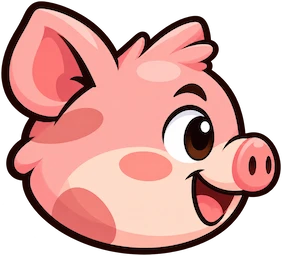
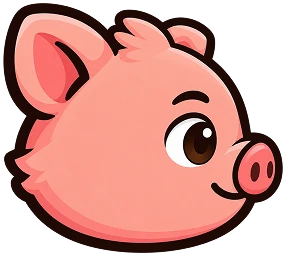
jaya

diff --git a/config.js b/config.js
@@ -716,6 +716,14 @@ var CONFIG = {
             // centre at X, Y and its face (the picture's shortest side) H —
             // ears / horns grow past it.
             FACE: { X: 126, Y: 28, H: 40 },
+            // THE HEAD ON EVERY CAR (and the VS card): grown past FACE.H, and
+            // sunk behind the door — its bottom CROP cut off exactly at the
+            // window's bottom edge (FACE.S, measured from each car's art; or
+            // Y + H/2 without it). The extra size grows up, over the roof.
+            HEAD: {
+                SCALE: 1.35,       // x FACE.H
+                CROP:  0.1,        // share of the head's height hidden below the window's bottom edge
+            },
             // THE LOOK BACK: the driver stays down out of sight — only the
             // window shows — and pops up from the sill to glance back only at
             // milestones, as the piggy car runs down each share of the lead in
@@ -734,40 +742,40 @@ var CONFIG = {
             // TYRE_SIZE square tyres with their TOP-LEFT corners at TYRES
             // (rear, front) — and the driver's head (FACE, as above) in this
             // body's own driver's window: its cut edge on the window's sill,
-            // the ears over the roof. With none here (or the art missing) the
+            // the ears over the roof; S is the glass's bottom edge. With none here (or the art missing) the
             // piggy car's body stands in, with FACE above.
             CARS: [
-                getawayCarArt(1, 207, 104, 56, [20, 65], [126, 65], { X: 100, Y: 27, H: 36 }),   // yellow city car
-                getawayCarArt(2, 256,  72, 56, [22, 34], [163, 34], { X: 110, Y: 17, H: 30 }),   // red muscle car
-                getawayCarArt(3, 256, 119, 65, [29, 75], [156, 75], { X: 113, Y: 40, H: 40 }),   // green SUV
-                getawayCarArt(4, 256, 100, 58, [28, 63], [173, 63], { X: 135, Y: 27, H: 36 }),   // teal classic
-                getawayCarArt(5, 256,  91, 53, [29, 60], [175, 60], { X: 135, Y: 19, H: 38 }),   // dark sedan
-                getawayCarArt(6, 256,  77, 56, [19, 39], [157, 39], { X: 112, Y: 17, H: 30 }),   // blue sports car
-                getawayCarArt(7, 256, 101, 54, [30, 67], [176, 67], { X: 143, Y: 30, H: 36 }),   // orange wagon
-                getawayCarArt(8, 256, 114, 60, [25, 75], [169, 75], { X: 138, Y: 34, H: 40 }),   // cream city car
-                getawayCarArt(9, 304, 102, 64, [38, 62], [216, 62], { X: 168, Y: 28, H: 38 }),   // red pickup
-                getawayCarArt(10, 307, 129, 64, [34, 85], [220, 85], { X: 214, Y: 42, H: 44 }),  // blue van
-                getawayCarArt(11, 288,  73, 49, [30, 43], [208, 43], { X: 150, Y: 18, H: 30 }),  // purple limo
-                getawayCarArt(12, 256, 150, 68, [30, 103], [162, 103], { X: 125, Y: 54, H: 50 }), // mint bubble car
-                getawayCarArt(13, 280,  81, 53, [32, 47], [196, 47], { X: 122, Y: 24, H: 34 }),  // red fastback
-                getawayCarArt(14, 256, 126, 65, [28, 82], [160, 82], { X: 122, Y: 39, H: 40 }),  // green off-roader
-                getawayCarArt(15, 256,  84, 48, [32, 52], [181, 52], { X: 138, Y: 22, H: 34 }),  // cream sedan
-                getawayCarArt(16, 256,  87, 58, [30, 52], [171, 52], { X: 118, Y: 25, H: 32 }),  // yellow coupe
-                getawayCarArt(17, 300, 125, 69, [28, 85], [205, 85], { X: 190, Y: 37, H: 44 }),  // blue minivan
-                getawayCarArt(18, 252,  66, 45, [36, 37], [178, 37], { X: 115, Y: 16, H: 28 }),  // maroon coupe
-                getawayCarArt(19, 256,  97, 56, [18, 57], [167, 57], { X: 112, Y: 24, H: 34 }),  // red hatchback
-                getawayCarArt(20, 270,  94, 54, [34, 60], [184, 60], { X: 158, Y: 23, H: 36 }),  // blue pickup
-                getawayCarArt(21, 256,  97, 45, [35, 67], [181, 67], { X: 145, Y: 27, H: 34 }),  // olive classic
-                getawayCarArt(22, 260,  73, 53, [34, 35], [175, 35], { X: 132, Y: 18, H: 28 }),  // orange sports car
-                getawayCarArt(23, 260,  89, 47, [35, 59], [185, 59], { X: 148, Y: 25, H: 34 }),  // grey estate
-                getawayCarArt(24, 280, 139, 65, [35, 97], [189, 97], { X: 168, Y: 45, H: 44 }),  // yellow van
-                getawayCarArt(25, 256,  94, 53, [27, 58], [177, 58], { X: 120, Y: 23, H: 36 }),  // teal hatchback
-                getawayCarArt(26, 256,  73, 47, [29, 44], [181, 44], { X: 140, Y: 17, H: 28 }),  // dark green sedan
-                getawayCarArt(27, 256,  94, 55, [26, 61], [180, 61], { X: 145, Y: 28, H: 36 }),  // red estate
-                getawayCarArt(28, 256,  93, 63, [17, 50], [185, 50], { X: 115, Y: 18, H: 28 }),  // purple hot rod
-                getawayCarArt(29, 256,  88, 56, [21, 53], [174, 53], { X: 137, Y: 22, H: 34 }),  // copper crossover
-                getawayCarArt(30, 256, 105, 53, [24, 72], [177, 72], { X: 142, Y: 33, H: 38 }),  // yellow taxi
-                getawayCarArt(31, 256,  77, 56, [26, 43], [178, 43], { X: 115, Y: 20, H: 28 }),  // navy coupe
+                getawayCarArt(1, 207, 104, 56, [20, 65], [126, 65], { X: 100, Y: 27, H: 36, S: 45 }),   // yellow city car
+                getawayCarArt(2, 256,  72, 56, [22, 34], [163, 34], { X: 110, Y: 17, H: 30, S: 32 }),   // red muscle car
+                getawayCarArt(3, 256, 119, 65, [29, 75], [156, 75], { X: 113, Y: 40, H: 40, S: 59 }),   // green SUV
+                getawayCarArt(4, 256, 100, 58, [28, 63], [173, 63], { X: 135, Y: 27, H: 36, S: 44 }),   // teal classic
+                getawayCarArt(5, 256,  91, 53, [29, 60], [175, 60], { X: 135, Y: 19, H: 38, S: 37 }),   // dark sedan
+                getawayCarArt(6, 256,  77, 56, [19, 39], [157, 39], { X: 112, Y: 17, H: 30, S: 30 }),   // blue sports car
+                getawayCarArt(7, 256, 101, 54, [30, 67], [176, 67], { X: 143, Y: 30, H: 36, S: 49 }),   // orange wagon
+                getawayCarArt(8, 256, 114, 60, [25, 75], [169, 75], { X: 138, Y: 34, H: 40, S: 50 }),   // cream city car
+                getawayCarArt(9, 304, 102, 64, [38, 62], [216, 62], { X: 168, Y: 28, H: 38, S: 44 }),   // red pickup
+                getawayCarArt(10, 307, 129, 64, [34, 85], [220, 85], { X: 214, Y: 42, H: 44, S: 60 }),  // blue van
+                getawayCarArt(11, 288,  73, 49, [30, 43], [208, 43], { X: 150, Y: 18, H: 30, S: 29 }),  // purple limo
+                getawayCarArt(12, 256, 150, 68, [30, 103], [162, 103], { X: 125, Y: 54, H: 50, S: 71 }), // mint bubble car
+                getawayCarArt(13, 280,  81, 53, [32, 47], [196, 47], { X: 122, Y: 24, H: 34, S: 36 }),  // red fastback
+                getawayCarArt(14, 256, 126, 65, [28, 82], [160, 82], { X: 122, Y: 39, H: 40, S: 56 }),  // green off-roader
+                getawayCarArt(15, 256,  84, 48, [32, 52], [181, 52], { X: 138, Y: 22, H: 34, S: 35 }),  // cream sedan
+                getawayCarArt(16, 256,  87, 58, [30, 52], [171, 52], { X: 118, Y: 25, H: 32, S: 38 }),  // yellow coupe
+                getawayCarArt(17, 300, 125, 69, [28, 85], [205, 85], { X: 190, Y: 37, H: 44, S: 55 }),  // blue minivan
+                getawayCarArt(18, 252,  66, 45, [36, 37], [178, 37], { X: 115, Y: 16, H: 28, S: 25 }),  // maroon coupe
+                getawayCarArt(19, 256,  97, 56, [18, 57], [167, 57], { X: 112, Y: 24, H: 34, S: 38 }),  // red hatchback
+                getawayCarArt(20, 270,  94, 54, [34, 60], [184, 60], { X: 158, Y: 23, H: 36, S: 38 }),  // blue pickup
+                getawayCarArt(21, 256,  97, 45, [35, 67], [181, 67], { X: 145, Y: 27, H: 34, S: 40 }),  // olive classic
+                getawayCarArt(22, 260,  73, 53, [34, 35], [175, 35], { X: 132, Y: 18, H: 28, S: 30 }),  // orange sports car
+                getawayCarArt(23, 260,  89, 47, [35, 59], [185, 59], { X: 148, Y: 25, H: 34, S: 39 }),  // grey estate
+                getawayCarArt(24, 280, 139, 65, [35, 97], [189, 97], { X: 168, Y: 45, H: 44, S: 64 }),  // yellow van
+                getawayCarArt(25, 256,  94, 53, [27, 58], [177, 58], { X: 120, Y: 23, H: 36, S: 38 }),  // teal hatchback
+                getawayCarArt(26, 256,  73, 47, [29, 44], [181, 44], { X: 140, Y: 17, H: 28, S: 28 }),  // dark green sedan
+                getawayCarArt(27, 256,  94, 55, [26, 61], [180, 61], { X: 145, Y: 28, H: 36, S: 41 }),  // red estate
+                getawayCarArt(28, 256,  93, 63, [17, 50], [185, 50], { X: 115, Y: 18, H: 28, S: 32 }),  // purple hot rod
+                getawayCarArt(29, 256,  88, 56, [21, 53], [174, 53], { X: 137, Y: 22, H: 34, S: 36 }),  // copper crossover
+                getawayCarArt(30, 256, 105, 53, [24, 72], [177, 72], { X: 142, Y: 33, H: 38, S: 49 }),  // yellow taxi
+                getawayCarArt(31, 256,  77, 56, [26, 43], [178, 43], { X: 115, Y: 20, H: 28, S: 31 }),  // navy coupe
             ],
         },
     },
@@ -1200,6 +1208,11 @@ var CONFIG = {
             { x: 175, y: 66 },   // front
         ],
         TYRES_IN_FRONT: true,    // tyres drawn over the body's dark arches
+        // THE DRIVER: the piggy in side view (looking ahead, at the rival) in
+        // the front window, in the BODY's pixels. Its height H with the bottom
+        // CROP cut off at the window's bottom edge S, centred at X; whatever
+        // is outside the glass (TOP, LEFT, RIGHT edges) cut off too.
+        DRIVER: { KEY: 'piggy_side', X: 120, S: 43, TOP: 14, LEFT: 96, RIGHT: 147, H: 42, CROP: 0.1 },
 
         // ONE CAR PER SLOT, its road the line through the slot's bottom edge.
         // Sized to WIDTH_FRAC of the car area's width, but never taller (ground

diff --git a/game.js b/game.js
@@ -1192,8 +1192,33 @@ class GameScene extends Phaser.Scene {
             const h = Math.min(A.width * v(C.WIDTH_FRAC, 0.45) / bodyW * carH,
                                p.slotSize * v(C.MAX_H_FRAC, 1)) * v(C.SCALE, 1);
             const w = h / carH * bodyW;
-            return this._makeCar(left + w / 2, p.slotY + p.slotSize / 2, h);
+            const car = this._makeCar(left + w / 2, p.slotY + p.slotSize / 2, h);
+            this._seatDriver(car);
+            return car;
         });
+    }
+
+    // THE PIGGY CAR'S DRIVER in its window (CAR.DRIVER): the side view, its
+    // bottom cut at the window's bottom edge and its top at the glass's
+    // top. Rides the body with the suspension (car.face, _suspend).
+    _seatDriver(car) {
+        const C = CONFIG.CAR || {}, Dr = C.DRIVER, v = (x, d) => (x !== undefined ? x : d);
+        if (!Dr || !this.textures.exists(Dr.KEY)) return;
+        const bw = v(C.BODY_W, 254), gy = this._carGround(C);
+        const face = this.add.image(-bw / 2 + Dr.X, -gy + Dr.S, Dr.KEY).setOrigin(0.5, 0);
+        const fw = face.frame.realWidth, fh = face.frame.realHeight;
+        const s = Dr.H / fh, cut = v(Dr.CROP, 0);
+        face.setScale(s);
+        face.y -= Dr.H * (1 - cut);
+        // Off the top and sides: whatever is outside the glass.
+        const x0 = Dr.X - fw * s / 2;
+        const top = Math.max(0, (Dr.TOP - (Dr.S - Dr.H * (1 - cut))) / s);
+        const l = Dr.LEFT !== undefined ? Math.max(0, (Dr.LEFT - x0) / s) : 0;
+        const r = Dr.RIGHT !== undefined ? Math.min(fw, (Dr.RIGHT - x0) / s) : fw;
+        face.setCrop(l, top, r - l, fh * (1 - cut) - top);
+        car.addAt(face, 1);
+        car.face = face;
+        car.faceBaseY = face.y;
     }
 
     // Where the tyres meet the ground, in the body's own pixels: the lowest
@@ -1664,10 +1689,8 @@ class GameScene extends Phaser.Scene {
             // Anchored at its BOTTOM CENTRE, on the window's sill — so it pops
             // up from the sill when it peeks (_peekFaces), and sinks back to
             // it. Its shortest side is the face, H; ears / horns grow past.
-            const sill = -gy + v(F.Y, 28) + v(F.H, 40) / 2;
-            const face = this.add.image(-bw / 2 + v(F.X, 126), sill, key);
-            const fw = face.frame.realWidth, fh = face.frame.realHeight;
-            face.setOrigin(0.5, 1).setScale(v(F.H, 40) / Math.min(fw, fh));
+            const face = this.add.image(-bw / 2 + v(F.X, 126), -gy + v(F.S, v(F.Y, 28) + v(F.H, 40) / 2), key);
+            this._seatHead(face, F);
             face.baseScale = face.scaleX;
             en.addAt(face, 1);
             en.face = face;
@@ -1678,6 +1701,19 @@ class GameScene extends Phaser.Scene {
             en.peek = { v: 0, want: 0, t: 0, up: false, mi: this._nextMilestone(i) };
         }
         return en;
+    }
+
+    // A DRIVER'S HEAD, placed at the window's bottom edge (its y on entry):
+    // sized from FACE.H x HEAD.SCALE by its shortest side, and sunk behind
+    // the door — its bottom CROP below the edge, cut off. Origin stays the
+    // full picture's bottom centre, so the peek's squash still works.
+    _seatHead(face, F) {
+        const Hd = ((CONFIG.VILLAIN || {}).CAR || {}).HEAD || {}, v = (x, d) => (x !== undefined ? x : d);
+        const fw = face.frame.realWidth, fh = face.frame.realHeight;
+        const s = v(F.H, 40) * v(Hd.SCALE, 1) / Math.min(fw, fh), cut = v(Hd.CROP, 0);
+        face.setOrigin(0.5, 1).setScale(s);
+        if (cut > 0) face.setCrop(0, 0, fw, fh * (1 - cut));
+        face.y += fh * s * cut;
     }
 
     // Lane i's share of its distance covered, 0..1.
@@ -2056,8 +2092,8 @@ class GameScene extends Phaser.Scene {
         car.setDepth(0);
         const key = rival ? villainKey(villainIndexFor(this.level)) : 'podium_piggy';
         if (this.textures.exists(key)) {
-            const face = this.add.image(-bw / 2 + v(F.X, 126), -gy + v(F.Y, 28) + v(F.H, 40) / 2, key);
-            face.setOrigin(0.5, 1).setScale(v(F.H, 40) / Math.min(face.frame.realWidth, face.frame.realHeight));
+            const face = this.add.image(-bw / 2 + v(F.X, 126), -gy + v(F.S, v(F.Y, 28) + v(F.H, 40) / 2), key);
+            this._seatHead(face, F);
             car.addAt(face, 1);
         }
         if (rival) car.scaleX = -car.scaleX;
@@ -2852,7 +2888,7 @@ class GameScene extends Phaser.Scene {
         // down, the list scrolls past YOU and each racer drops a place as it
         // is passed. YOU goes from the bottom slot to its final one. Rows
         // fade at the window's edges (no masks in this build).
-        let you = null, place = null;
+        let you = null, place = null, unlock = null;
         if (!champ) {
             const top = ahead;
             const others = [];
@@ -2873,11 +2909,10 @@ class GameScene extends Phaser.Scene {
             const passed = v(K.PASSED_ALPHA, 0.45);
             for (const o of others) if (o.rank >= oldR) o.body.setAlpha(passed);
             if (beaten) beaten.warm.setAlpha(1);
-            // UNLOCKED: once YOU passes the rival just beaten, its row fades
-            // and the next opponent's silhouette fills in with colour.
-            let unlocked = false;
-            const unlock = () => {
-                unlocked = true;
+            // UNLOCKED: once YOU has reached its row and bounced (the slide's
+            // end), the rival just beaten fades and the next opponent's
+            // silhouette fills in with colour.
+            unlock = () => {
                 const ms = v(K.UNLOCK_MS, 350);
                 // Everyone just passed: grey and see-through.
                 for (const o of others) {
@@ -2899,7 +2934,6 @@ class GameScene extends Phaser.Scene {
                 }
             };
             place = (s) => {
-                if (!unlocked && s <= newR + 0.5) unlock();
                 const ys = top + travel * (s - newR) / Math.max(1, oldR - newR);
                 you.y = slotY(ys);
                 you.rankText.setText('#' + this._bigNum(Math.round(s)));
@@ -2945,7 +2979,8 @@ class GameScene extends Phaser.Scene {
                 onUpdate: (tw) => place(tw.getValue()),
                 onComplete: () => {
                     settle();
-                    this.tweens.add({ targets: you, scale: 1.06, duration: 120, yoyo: true, ease: 'Quad.easeOut' });
+                    this.tweens.add({ targets: you, scale: 1.06, duration: 120, yoyo: true, ease: 'Quad.easeOut',
+                        onComplete: () => { if (!closed && unlock) unlock(); } });
                 } });
         }
         // With a next opponent to show, it stays highlighted NEXT_MS.
@@ -2997,6 +3032,23 @@ class GameScene extends Phaser.Scene {
         return line;
     }
 
+    // THE BURST at x, y on the road: a ring with rays, swelling and fading.
+    // The win's (_winFx), and the overtake's as the noses meet; `k` its size.
+    _burst(x, y, k = 1) {
+        const W = (CONFIG.RACE || {}).WIN || {}, v = (n, d) => (n !== undefined ? n : d);
+        const sc = this.layoutConfig.platformScale;
+        const burst = this._onRoad(this.add.graphics({ x, y }).setDepth(v(W.DEPTH, 6)).setScale(k));
+        burst.lineStyle(Math.max(2, 5 * sc), 0xffffff, 1).strokeCircle(0, 0, 14 * sc);
+        burst.lineStyle(Math.max(2, 4 * sc), 0xffe27a, 1);
+        const rays = v(W.RAYS, 10);
+        for (let k = 0; k < rays; k++) {
+            const a = k / rays * Math.PI * 2, c = Math.cos(a), s = Math.sin(a);
+            burst.lineBetween(c * 22 * sc, s * 22 * sc, c * 40 * sc, s * 40 * sc);
+        }
+        this.tweens.add({ targets: burst, scale: 4.5 * k, alpha: 0, duration: v(W.RING_MS, 520),
+            ease: 'Cubic.easeOut', onComplete: () => burst.destroy() });
+    }
+
     // THE WIN, as lane i's winner's nose crosses the line: a burst ring and
     // rays, confetti, FINISH!, a shake, the winner's hop and dust, the line's
     // punch, and the prize flying to the coin counter.
@@ -3009,17 +3061,7 @@ class GameScene extends Phaser.Scene {
         const x = line && line.scene ? line.x : car.x + car.carW / 2;
         const y = ground - car.carH * 0.75;
 
-        // THE BURST: a ring with rays, swelling and fading.
-        const burst = this._onRoad(this.add.graphics({ x, y }).setDepth(D));
-        burst.lineStyle(Math.max(2, 5 * sc), 0xffffff, 1).strokeCircle(0, 0, 14 * sc);
-        burst.lineStyle(Math.max(2, 4 * sc), 0xffe27a, 1);
-        const rays = v(W.RAYS, 10);
-        for (let k = 0; k < rays; k++) {
-            const a = k / rays * Math.PI * 2, c = Math.cos(a), s = Math.sin(a);
-            burst.lineBetween(c * 22 * sc, s * 22 * sc, c * 40 * sc, s * 40 * sc);
-        }
-        this.tweens.add({ targets: burst, scale: 4.5, alpha: 0, duration: v(W.RING_MS, 520),
-            ease: 'Cubic.easeOut', onComplete: () => burst.destroy() });
+        this._burst(x, y);
 
         // CONFETTI: up and out from the line, then down to the road.
         const cols = (W.COLORS || ['#ffd23f', '#ff5a5f', '#3ddc97', '#4cc9f0']).map(hexColor);

diff --git a/assets.js b/assets.js
@@ -61,6 +61,8 @@ function sharedAssets() {
     // (see CONFIG.CAR / _makeCar).
     A.image('car_body', 'graphics/hero_car/car_01.webp');
     A.image('car_tyre', 'graphics/hero_car/car_tyre_01.webp');
+    // Its driver: the piggy in side view (CONFIG.CAR.DRIVER).
+    A.image('piggy_side', 'graphics/piggy_character/piggy_side.webp');
     // THE FIRST RIVAL CAR DESIGN only (CONFIG.VILLAIN.CAR.CARS), body and
     // tyre. The rest come in the background (AssetManager.prefetchCars).
     const car1 = getawayCarFor(1);
